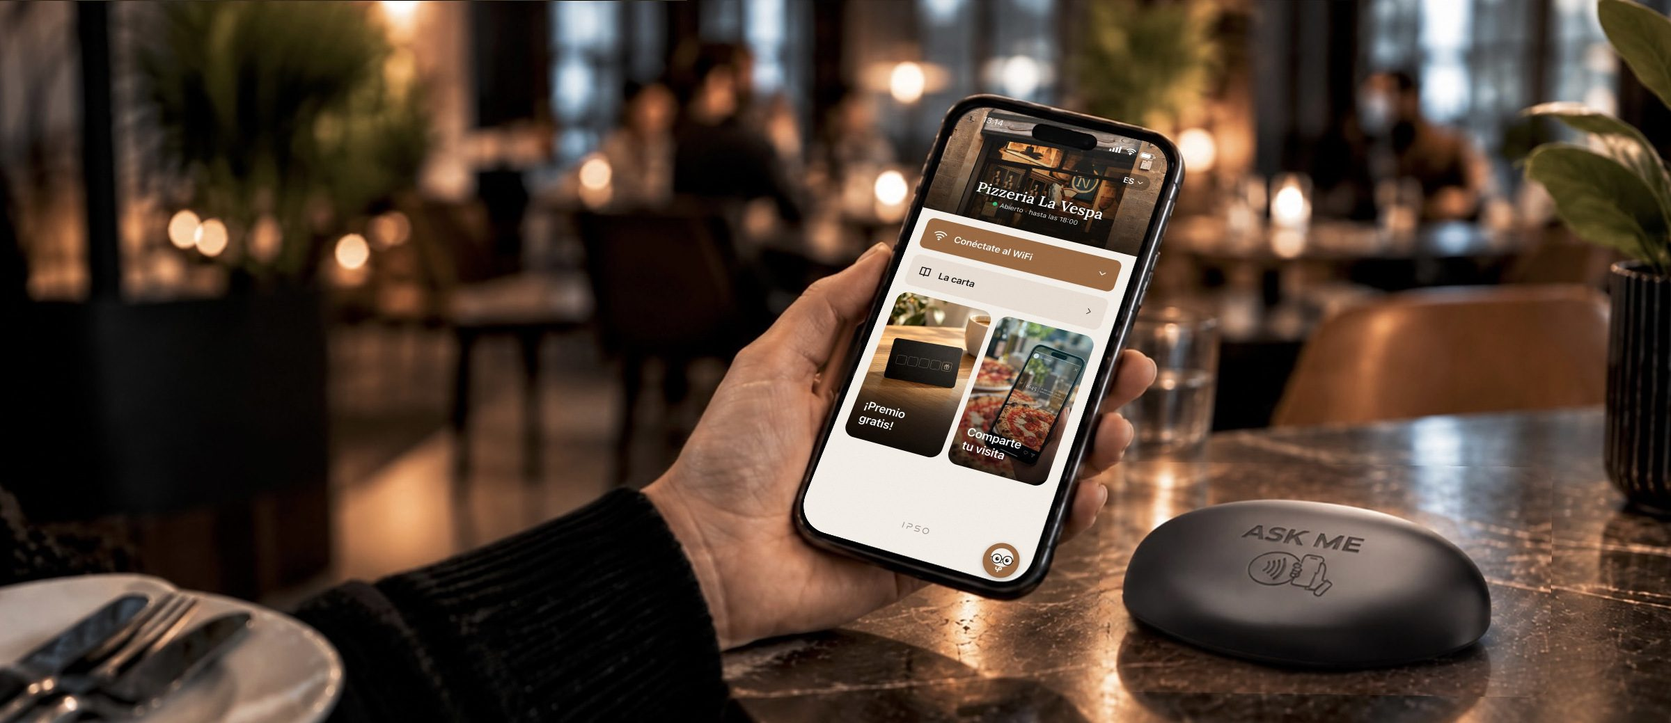
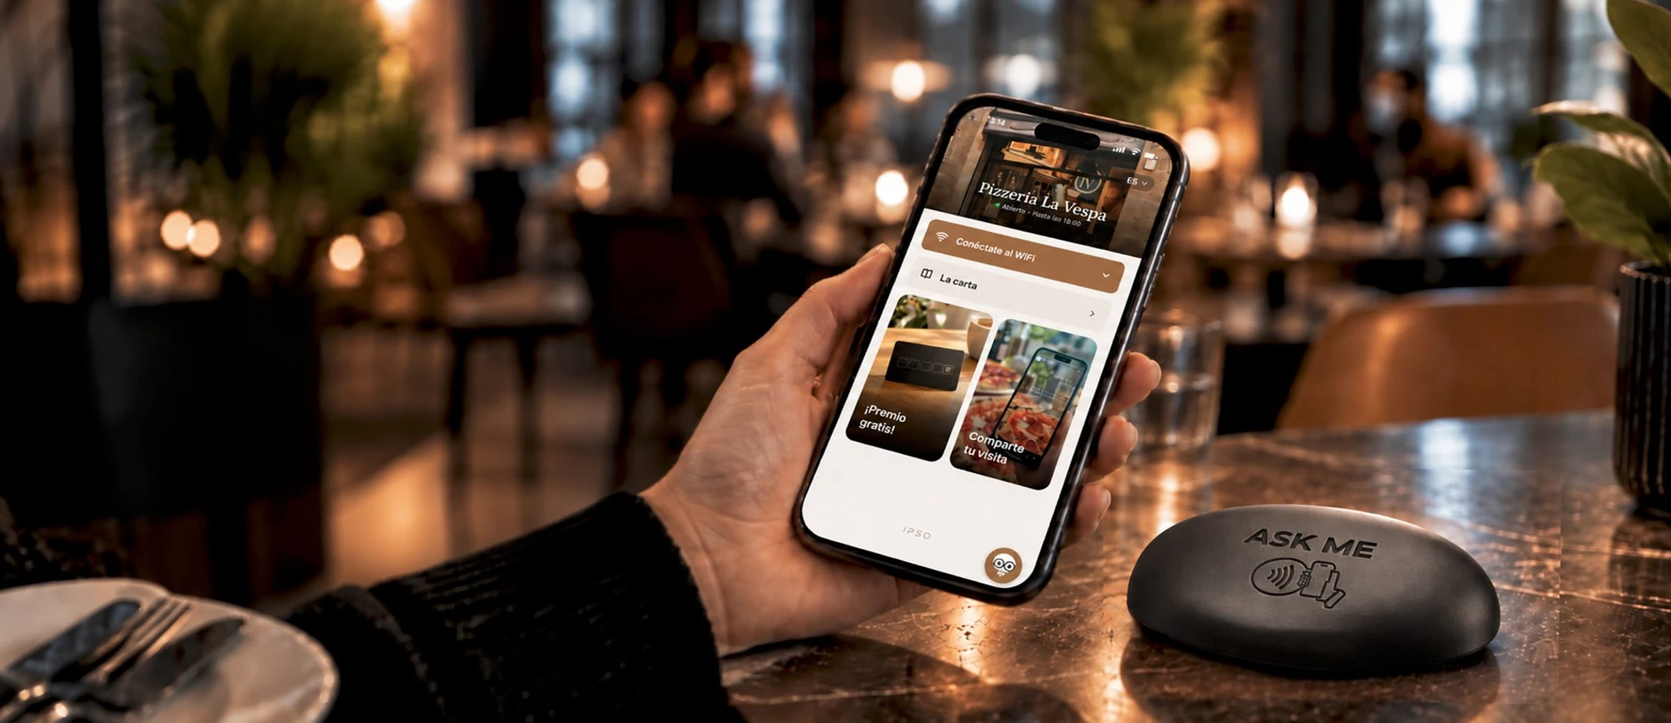
Add files via upload

diff --git a/index.html b/index.html
@@ -25,7 +25,7 @@
   <link rel="apple-touch-icon" href="/favicon.png?v=2"><!-- /ipso-seo -->
   <script type="application/ld+json" data-ipso="1">{"@context": "https://schema.org", "@graph": [{"@type": "Organization", "@id": "https://ipsoglobal.com/#org", "name": "Ipso", "alternateName": "IPSO", "url": "https://ipsoglobal.com/", "logo": "https://ipsoglobal.com/favicon.png?v=2", "slogan": "Somos el ADN de tu local.", "description": "Ipso es una empresa tecnológica de Barcelona que crea el ADN de bares, restaurantes, cafeterías, peluquerías y comercios de barrio: un punto NFC en el mostrador (IPSO HUB) que abre en el móvil del cliente el WiFi sin contraseña, la carta digital con fotos y precios, las reseñas de Google, una tarjeta de fidelización sin app y un asistente con inteligencia artificial que atiende en 30 idiomas.", "email": "contacto@ipsoglobal.com", "telephone": "+34603924226", "address": {"@type": "PostalAddress", "addressLocality": "Barcelona", "addressRegion": "Cataluña", "addressCountry": "ES"}, "areaServed": [{"@type": "City", "name": "Barcelona"}, {"@type": "Country", "name": "España"}], "contactPoint": {"@type": "ContactPoint", "contactType": "sales", "telephone": "+34603924226", "email": "contacto@ipsoglobal.com", "availableLanguage": ["es", "ca", "en"]}, "knowsAbout": ["NFC para restaurantes", "carta digital NFC", "reseñas de Google con NFC", "WiFi para clientes sin contraseña", "fidelización de clientes sin app", "asistente con IA para restaurantes", "digitalización de comercios de barrio"]}, {"@type": "WebSite", "@id": "https://ipsoglobal.com/#web", "url": "https://ipsoglobal.com/", "name": "Ipso", "inLanguage": ["es", "ca", "en"], "publisher": {"@id": "https://ipsoglobal.com/#org"}}, {"@type": "ProfessionalService", "@id": "https://ipsoglobal.com/#local", "name": "Ipso — Puntos NFC para comercios", "url": "https://ipsoglobal.com/", "telephone": "+34603924226", "email": "contacto@ipsoglobal.com", "priceRange": "€", "image": "https://ipsoglobal.com/og-image.png?v=2", "parentOrganization": {"@id": "https://ipsoglobal.com/#org"}, "address": {"@type": "PostalAddress", "addressLocality": "Barcelona", "addressRegion": "Cataluña", "addressCountry": "ES"}, "areaServed": ["Barcelona", "Área metropolitana de Barcelona", "Cataluña", "España"], "serviceType": ["Punto NFC para restaurantes y bares", "Carta digital NFC", "Stand de reseñas de Google", "WiFi NFC para clientes", "Fidelización de clientes sin app", "Asistente con IA para hostelería"]}, {"@type": "Service", "@id": "https://ipsoglobal.com/hub#product", "name": "IPSO HUB", "serviceType": "Punto NFC de relación con el cliente para bares, restaurantes y comercios", "provider": {"@id": "https://ipsoglobal.com/#org"}, "brand": {"@type": "Brand", "name": "Ipso"}, "url": "https://ipsoglobal.com/hub", "image": "https://ipsoglobal.com/og-image.png?v=2", "description": "IPSO HUB: el ADN de tu local. Una pieza NFC en la barra o el mostrador que, con un toque del móvil y sin apps, abre el WiFi sin contraseña, la carta digital con fotos y precios siempre al día, las reseñas de Google, la tarjeta de fidelización (sella tu visita, sin cartón) y un asistente con IA que recomienda platos, calcula presupuestos, avisa de alérgenos y atiende en 30 idiomas. Incluye informe mensual por WhatsApp para el dueño.", "category": "Tecnología para hostelería y comercio local", "audience": {"@type": "Audience", "audienceType": "Bares, restaurantes, cafeterías, peluquerías, centros de belleza y comercios de barrio"}, "offers": {"@type": "Offer", "priceCurrency": "EUR", "price": "19", "priceSpecification": {"@type": "UnitPriceSpecification", "price": "19", "priceCurrency": "EUR", "unitText": "mes"}, "areaServed": "Barcelona, España", "description": "Cuota mensual sin permanencia. Instalación y configuración en el local incluidas."}}, {"@type": "FAQPage", "@id": "https://ipsoglobal.com/#faq", "mainEntity": [{"@type": "Question", "name": "¿Sustituye a mi TPV o a mi camarero?", "acceptedAnswer": {"@type": "Answer", "text": "No. Tu TPV sigue cobrando y tu equipo sigue atendiendo. IPSO cuida lo que pasa en la mesa mientras tanto."}}, {"@type": "Question", "name": "¿Mis clientes podrán pagar desde el hub?", "acceptedAnswer": {"@type": "Answer", "text": "Sí. Tus clientes pueden pedir y pagar desde la mesa con tarjeta, Apple Pay, Google Pay o Bizum, y el dinero va directo a tu cuenta: Ipso no se queda ni un céntimo de lo que vendes. Como cada local cobra a su manera, lo preparamos a medida: cuéntanos qué caja y qué datáfono usas y te decimos cómo hacerlo."}}, {"@type": "Question", "name": "¿Hay permanencia? ¿Cómo cancelo?", "acceptedAnswer": {"@type": "Answer", "text": "No. Cancelas desde tu panel en un clic; dejas de pagar el mes siguiente y el punto sigue siendo tuyo."}}, {"@type": "Question", "name": "¿Necesito una app? ¿Funciona en cualquier móvil?", "acceptedAnswer": {"@type": "Answer", "text": "No. Llega programado y listo para poner en el mostrador. Funciona en iPhone y Android, por NFC: tus clientes solo acercan el móvil que ya llevan encima."}}, {"@type": "Question", "name": "¿Esto está permitido por Google?", "acceptedAnswer": {"@type": "Answer", "text": "Sí. El punto abre tu ficha oficial. No pedimos, no filtramos, no premiamos reseñas."}}]}]}</script>
 <meta charset="utf-8">
-<script src="./support.js?v=202610141514"></script>
+<script src="./support.js?v=202610141520"></script>
 </head>
 <body>
 <x-dc>
@@ -530,7 +530,7 @@ html body #sol-intro#sol-intro[data-rv="in"], html body #sol-rail#sol-rail[data-
   <!-- ============ HERO ============ -->
   <section id="top" data-hero2="1" style="position: relative; overflow: hidden; scroll-margin-top: 96px; background: #000000;">
     <div aria-hidden="true" style="position: absolute; inset: 0; margin: 0; padding: 0;">
-      <img src="assets/hero-askme-hd.jpg?v=6b6fd2fc" alt="" data-heroimg3="1" style="display: block; width: 100%; height: 100%; object-fit: cover; object-position: 62% 50%;">
+      <img src="assets/hero-askme-hd.jpg?v=20261014b" alt="" data-heroimg3="1" style="display: block; width: 100%; height: 100%; object-fit: cover; object-position: 62% 50%;">
       <div data-herodim3="1" style="position: absolute; inset: 0; background: linear-gradient(90deg, rgba(0,0,0,.9) 0%, rgba(0,0,0,.72) 26%, rgba(0,0,0,.3) 44%, rgba(0,0,0,0) 58%), linear-gradient(180deg, rgba(0,0,0,.4) 0%, rgba(0,0,0,0) 22%, rgba(0,0,0,0) 80%, rgba(0,0,0,.6) 100%);"></div>
     </div>
     <div data-sec="1" style="position: relative; width: 100%; max-width: 1920px; margin: 0 auto; padding: clamp(120px, 10vw, 180px) 5% clamp(72px, 7vw, 120px); text-align: left;">

diff --git a/hub.html b/hub.html
@@ -25,7 +25,7 @@
   <link rel="apple-touch-icon" href="/favicon.png?v=2"><!-- /ipso-seo -->
   <script type="application/ld+json" data-ipso="1">{"@context": "https://schema.org", "@graph": [{"@type": "Organization", "@id": "https://ipsoglobal.com/#org", "name": "Ipso", "alternateName": "IPSO", "url": "https://ipsoglobal.com/", "logo": "https://ipsoglobal.com/favicon.png?v=2", "slogan": "Somos el ADN de tu local.", "description": "Ipso es una empresa tecnológica de Barcelona que crea el ADN de bares, restaurantes, cafeterías, peluquerías y comercios de barrio: un punto NFC en el mostrador (IPSO HUB) que abre en el móvil del cliente el WiFi sin contraseña, la carta digital con fotos y precios, las reseñas de Google, una tarjeta de fidelización sin app y un asistente con inteligencia artificial que atiende en 30 idiomas.", "email": "contacto@ipsoglobal.com", "telephone": "+34603924226", "address": {"@type": "PostalAddress", "addressLocality": "Barcelona", "addressRegion": "Cataluña", "addressCountry": "ES"}, "areaServed": [{"@type": "City", "name": "Barcelona"}, {"@type": "Country", "name": "España"}], "contactPoint": {"@type": "ContactPoint", "contactType": "sales", "telephone": "+34603924226", "email": "contacto@ipsoglobal.com", "availableLanguage": ["es", "ca", "en"]}, "knowsAbout": ["NFC para restaurantes", "carta digital NFC", "reseñas de Google con NFC", "WiFi para clientes sin contraseña", "fidelización de clientes sin app", "asistente con IA para restaurantes", "digitalización de comercios de barrio"]}, {"@type": "WebSite", "@id": "https://ipsoglobal.com/#web", "url": "https://ipsoglobal.com/", "name": "Ipso", "inLanguage": ["es", "ca", "en"], "publisher": {"@id": "https://ipsoglobal.com/#org"}}, {"@type": "Service", "@id": "https://ipsoglobal.com/hub#product", "name": "IPSO HUB", "serviceType": "Punto NFC de relación con el cliente para bares, restaurantes y comercios", "provider": {"@id": "https://ipsoglobal.com/#org"}, "brand": {"@type": "Brand", "name": "Ipso"}, "url": "https://ipsoglobal.com/hub", "image": "https://ipsoglobal.com/og-image.png?v=2", "description": "IPSO HUB: el ADN de tu local. Una pieza NFC en la barra o el mostrador que, con un toque del móvil y sin apps, abre el WiFi sin contraseña, la carta digital con fotos y precios siempre al día, las reseñas de Google, la tarjeta de fidelización (sella tu visita, sin cartón) y un asistente con IA que recomienda platos, calcula presupuestos, avisa de alérgenos y atiende en 30 idiomas. Incluye informe mensual por WhatsApp para el dueño.", "category": "Tecnología para hostelería y comercio local", "audience": {"@type": "Audience", "audienceType": "Bares, restaurantes, cafeterías, peluquerías, centros de belleza y comercios de barrio"}, "offers": {"@type": "Offer", "priceCurrency": "EUR", "price": "19", "priceSpecification": {"@type": "UnitPriceSpecification", "price": "19", "priceCurrency": "EUR", "unitText": "mes"}, "areaServed": "Barcelona, España", "description": "Cuota mensual sin permanencia. Instalación y configuración en el local incluidas."}}, {"@type": "FAQPage", "@id": "https://ipsoglobal.com/hub#faq", "mainEntity": [{"@type": "Question", "name": "¿Cuál es la diferencia entre HUB y HUB Pro?", "acceptedAnswer": {"@type": "Answer", "text": "El HUB abre WiFi, carta, ficha de Google, redes y horarios con un pago único. El HUB Pro añade asistente con IA, tarjeta de sellos, panel en tiempo real, cambios ilimitados e informe mensual por 19 €/mes."}}, {"@type": "Question", "name": "¿Cómo cancelo?", "acceptedAnswer": {"@type": "Answer", "text": "Desde tu panel, en un clic, sin llamar ni escribir. Dejas de pagar el mes siguiente y el punto sigue siendo tuyo."}}, {"@type": "Question", "name": "¿Puedo pasar de HUB a Pro más adelante?", "acceptedAnswer": {"@type": "Answer", "text": "Sí, desde tu panel, sin cambiar el punto."}}, {"@type": "Question", "name": "¿En cualquier móvil?", "acceptedAnswer": {"@type": "Answer", "text": "Sí, iPhone y Android. El cliente solo acerca el móvil."}}, {"@type": "Question", "name": "¿Cómo funciona la tarjeta de sellos?", "acceptedAnswer": {"@type": "Answer", "text": "Es tu tarjeta de sellos, sin cartón. El cliente toca el HUB, deja su número una vez y cada visita se apunta sola. Tú decides la regla, por ejemplo 9 visitas y la 10.ª gratis. Cuando la alcanza, recibe un solo WhatsApp para canjear el premio en el local. Sin app, sin tocar tu TPV. El cliente acepta el uso de su número al dejarlo. Solo se usa para el premio. En tu informe mensual ves cuántos clientes repiten."}}, {"@type": "Question", "name": "¿Qué pasa con el teléfono de mis clientes?", "acceptedAnswer": {"@type": "Answer", "text": "Solo sirve para contar visitas y avisar del premio. No se comparte y el cliente puede borrarlo cuando quiera."}}, {"@type": "Question", "name": "¿Qué sale en la estampa de Comparte tu visita?", "acceptedAnswer": {"@type": "Answer", "text": "El nombre de tu local, la ciudad, el número de visita, la fecha y la hora. Nunca el teléfono ni ningún dato personal de tu cliente. Y solo se comparte si él quiere."}}]}]}</script>
 <meta charset="utf-8">
-<script src="./support.js?v=202610141514"></script>
+<script src="./support.js?v=202610141520"></script>
 </head>
 <body>
 <x-dc>

diff --git a/nosotros.html b/nosotros.html
@@ -25,7 +25,7 @@
   <link rel="apple-touch-icon" href="/favicon.png?v=2"><!-- /ipso-seo -->
   <script type="application/ld+json" data-ipso="1">{"@context": "https://schema.org", "@graph": [{"@type": "Organization", "@id": "https://ipsoglobal.com/#org", "name": "Ipso", "alternateName": "IPSO", "url": "https://ipsoglobal.com/", "logo": "https://ipsoglobal.com/favicon.png?v=2", "slogan": "Somos el ADN de tu local.", "description": "Ipso es una empresa tecnológica de Barcelona que crea el ADN de bares, restaurantes, cafeterías, peluquerías y comercios de barrio: un punto NFC en el mostrador (IPSO HUB) que abre en el móvil del cliente el WiFi sin contraseña, la carta digital con fotos y precios, las reseñas de Google, una tarjeta de fidelización sin app y un asistente con inteligencia artificial que atiende en 30 idiomas.", "email": "contacto@ipsoglobal.com", "telephone": "+34603924226", "address": {"@type": "PostalAddress", "addressLocality": "Barcelona", "addressRegion": "Cataluña", "addressCountry": "ES"}, "areaServed": [{"@type": "City", "name": "Barcelona"}, {"@type": "Country", "name": "España"}], "contactPoint": {"@type": "ContactPoint", "contactType": "sales", "telephone": "+34603924226", "email": "contacto@ipsoglobal.com", "availableLanguage": ["es", "ca", "en"]}, "knowsAbout": ["NFC para restaurantes", "carta digital NFC", "reseñas de Google con NFC", "WiFi para clientes sin contraseña", "fidelización de clientes sin app", "asistente con IA para restaurantes", "digitalización de comercios de barrio"]}, {"@type": "WebSite", "@id": "https://ipsoglobal.com/#web", "url": "https://ipsoglobal.com/", "name": "Ipso", "inLanguage": ["es", "ca", "en"], "publisher": {"@id": "https://ipsoglobal.com/#org"}}, {"@type": "ProfessionalService", "@id": "https://ipsoglobal.com/#local", "name": "Ipso — Puntos NFC para comercios", "url": "https://ipsoglobal.com/", "telephone": "+34603924226", "email": "contacto@ipsoglobal.com", "priceRange": "€", "image": "https://ipsoglobal.com/og-image.png?v=2", "parentOrganization": {"@id": "https://ipsoglobal.com/#org"}, "address": {"@type": "PostalAddress", "addressLocality": "Barcelona", "addressRegion": "Cataluña", "addressCountry": "ES"}, "areaServed": ["Barcelona", "Área metropolitana de Barcelona", "Cataluña", "España"], "serviceType": ["Punto NFC para restaurantes y bares", "Carta digital NFC", "Stand de reseñas de Google", "WiFi NFC para clientes", "Fidelización de clientes sin app", "Asistente con IA para hostelería"]}]}</script>
 <meta charset="utf-8">
-<script src="./support.js?v=202610141514"></script>
+<script src="./support.js?v=202610141520"></script>
 </head>
 <body>
 <x-dc>
@@ -361,7 +361,7 @@ class Component extends DCLogic {
 
   componentDidMount() {
     try { const L0 = localStorage.getItem('ipso-lang'); if (L0 && ['es','en','ca'].indexOf(L0) >= 0 && L0 !== this.state.lang) { const p0 = this.state.lang; this.setState({ lang: L0 }, () => { if (this.applyLang) this.applyLang(p0); }); } } catch (e) {}
-    import('./ipso-chrome.js?v=202610141514').then((m) => { this._chrome = m; m.applyTheme(this.state.theme); this.forceUpdate(); });
+    import('./ipso-chrome.js?v=202610141520').then((m) => { this._chrome = m; m.applyTheme(this.state.theme); this.forceUpdate(); });
   }
 
   componentDidUpdate() {

diff --git a/404.html b/404.html
@@ -25,7 +25,7 @@
   <link rel="apple-touch-icon" href="/favicon.png?v=2"><!-- /ipso-seo -->
   <script type="application/ld+json" data-ipso="1">{"@context": "https://schema.org", "@graph": [{"@type": "Organization", "@id": "https://ipsoglobal.com/#org", "name": "Ipso", "alternateName": "IPSO", "url": "https://ipsoglobal.com/", "logo": "https://ipsoglobal.com/favicon.png?v=2", "slogan": "Somos el ADN de tu local.", "description": "Ipso es una empresa tecnológica de Barcelona que crea el ADN de bares, restaurantes, cafeterías, peluquerías y comercios de barrio: un punto NFC en el mostrador (IPSO HUB) que abre en el móvil del cliente el WiFi sin contraseña, la carta digital con fotos y precios, las reseñas de Google, una tarjeta de fidelización sin app y un asistente con inteligencia artificial que atiende en 30 idiomas.", "email": "contacto@ipsoglobal.com", "telephone": "+34603924226", "address": {"@type": "PostalAddress", "addressLocality": "Barcelona", "addressRegion": "Cataluña", "addressCountry": "ES"}, "areaServed": [{"@type": "City", "name": "Barcelona"}, {"@type": "Country", "name": "España"}], "contactPoint": {"@type": "ContactPoint", "contactType": "sales", "telephone": "+34603924226", "email": "contacto@ipsoglobal.com", "availableLanguage": ["es", "ca", "en"]}, "knowsAbout": ["NFC para restaurantes", "carta digital NFC", "reseñas de Google con NFC", "WiFi para clientes sin contraseña", "fidelización de clientes sin app", "asistente con IA para restaurantes", "digitalización de comercios de barrio"]}, {"@type": "WebSite", "@id": "https://ipsoglobal.com/#web", "url": "https://ipsoglobal.com/", "name": "Ipso", "inLanguage": ["es", "ca", "en"], "publisher": {"@id": "https://ipsoglobal.com/#org"}}]}</script>
 <meta charset="utf-8">
-<script src="./support.js?v=202610141514"></script>
+<script src="./support.js?v=202610141520"></script>
 </head>
 <body>
 <x-dc>
@@ -304,7 +304,7 @@ class Component extends DCLogic {
 
   componentDidMount() {
     try { const L0 = localStorage.getItem('ipso-lang'); if (L0 && ['es','en','ca'].indexOf(L0) >= 0 && L0 !== this.state.lang) { const p0 = this.state.lang; this.setState({ lang: L0 }, () => { if (this.applyLang) this.applyLang(p0); }); } } catch (e) {}
-    import('./ipso-chrome.js?v=202610141514').then((m) => { this._chrome = m; m.applyTheme(this.state.theme); this.forceUpdate(); });
+    import('./ipso-chrome.js?v=202610141520').then((m) => { this._chrome = m; m.applyTheme(this.state.theme); this.forceUpdate(); });
   }
 
   componentDidUpdate() {

diff --git a/legal.html b/legal.html
@@ -25,7 +25,7 @@
   <link rel="apple-touch-icon" href="/favicon.png?v=2"><!-- /ipso-seo -->
   <script type="application/ld+json" data-ipso="1">{"@context": "https://schema.org", "@graph": [{"@type": "Organization", "@id": "https://ipsoglobal.com/#org", "name": "Ipso", "alternateName": "IPSO", "url": "https://ipsoglobal.com/", "logo": "https://ipsoglobal.com/favicon.png?v=2", "slogan": "Somos el ADN de tu local.", "description": "Ipso es una empresa tecnológica de Barcelona que crea el ADN de bares, restaurantes, cafeterías, peluquerías y comercios de barrio: un punto NFC en el mostrador (IPSO HUB) que abre en el móvil del cliente el WiFi sin contraseña, la carta digital con fotos y precios, las reseñas de Google, una tarjeta de fidelización sin app y un asistente con inteligencia artificial que atiende en 30 idiomas.", "email": "contacto@ipsoglobal.com", "telephone": "+34603924226", "address": {"@type": "PostalAddress", "addressLocality": "Barcelona", "addressRegion": "Cataluña", "addressCountry": "ES"}, "areaServed": [{"@type": "City", "name": "Barcelona"}, {"@type": "Country", "name": "España"}], "contactPoint": {"@type": "ContactPoint", "contactType": "sales", "telephone": "+34603924226", "email": "contacto@ipsoglobal.com", "availableLanguage": ["es", "ca", "en"]}, "knowsAbout": ["NFC para restaurantes", "carta digital NFC", "reseñas de Google con NFC", "WiFi para clientes sin contraseña", "fidelización de clientes sin app", "asistente con IA para restaurantes", "digitalización de comercios de barrio"]}, {"@type": "WebSite", "@id": "https://ipsoglobal.com/#web", "url": "https://ipsoglobal.com/", "name": "Ipso", "inLanguage": ["es", "ca", "en"], "publisher": {"@id": "https://ipsoglobal.com/#org"}}]}</script>
 <meta charset="utf-8">
-<script src="./support.js?v=202610141514"></script>
+<script src="./support.js?v=202610141520"></script>
 </head>
 <body>
 <x-dc>
@@ -766,7 +766,7 @@ class Component extends DCLogic {
 
   componentDidMount() {
     try { const L0 = localStorage.getItem('ipso-lang'); if (L0 && ['es','en','ca'].indexOf(L0) >= 0 && L0 !== this.state.lang) { const p0 = this.state.lang; this.setState({ lang: L0 }, () => { if (this.applyLang) this.applyLang(p0); }); } } catch (e) {}
-    import('./ipso-chrome.js?v=202610141514').then((m) => { this._chrome = m; m.applyTheme(this.state.theme); this.forceUpdate(); });
+    import('./ipso-chrome.js?v=202610141520').then((m) => { this._chrome = m; m.applyTheme(this.state.theme); this.forceUpdate(); });
   }
 
   componentDidUpdate() {

diff --git a/resenas.html b/resenas.html
@@ -25,7 +25,7 @@
   <link rel="apple-touch-icon" href="/favicon.png?v=2"><!-- /ipso-seo -->
   <script type="application/ld+json" data-ipso="1">{"@context": "https://schema.org", "@graph": [{"@type": "Organization", "@id": "https://ipsoglobal.com/#org", "name": "Ipso", "alternateName": "IPSO", "url": "https://ipsoglobal.com/", "logo": "https://ipsoglobal.com/favicon.png?v=2", "slogan": "Somos el ADN de tu local.", "description": "Ipso es una empresa tecnológica de Barcelona que crea el ADN de bares, restaurantes, cafeterías, peluquerías y comercios de barrio: un punto NFC en el mostrador (IPSO HUB) que abre en el móvil del cliente el WiFi sin contraseña, la carta digital con fotos y precios, las reseñas de Google, una tarjeta de fidelización sin app y un asistente con inteligencia artificial que atiende en 30 idiomas.", "email": "contacto@ipsoglobal.com", "telephone": "+34603924226", "address": {"@type": "PostalAddress", "addressLocality": "Barcelona", "addressRegion": "Cataluña", "addressCountry": "ES"}, "areaServed": [{"@type": "City", "name": "Barcelona"}, {"@type": "Country", "name": "España"}], "contactPoint": {"@type": "ContactPoint", "contactType": "sales", "telephone": "+34603924226", "email": "contacto@ipsoglobal.com", "availableLanguage": ["es", "ca", "en"]}, "knowsAbout": ["NFC para restaurantes", "carta digital NFC", "reseñas de Google con NFC", "WiFi para clientes sin contraseña", "fidelización de clientes sin app", "asistente con IA para restaurantes", "digitalización de comercios de barrio"]}, {"@type": "WebSite", "@id": "https://ipsoglobal.com/#web", "url": "https://ipsoglobal.com/", "name": "Ipso", "inLanguage": ["es", "ca", "en"], "publisher": {"@id": "https://ipsoglobal.com/#org"}}]}</script>
 <meta charset="utf-8">
-<script src="./support.js?v=202610141514"></script>
+<script src="./support.js?v=202610141520"></script>
 </head>
 <body>
 <x-dc>
@@ -382,7 +382,7 @@ class Component extends DCLogic {
 
   componentDidMount() {
     try { const L0 = localStorage.getItem('ipso-lang'); if (L0 && ['es','en','ca'].indexOf(L0) >= 0 && L0 !== this.state.lang) { const p0 = this.state.lang; this.setState({ lang: L0 }, () => { if (this.applyLang) this.applyLang(p0); }); } } catch (e) {}
-    import('./ipso-chrome.js?v=202610141514').then((m) => { this._chrome = m; m.applyTheme(this.state.theme); this.forceUpdate(); });
+    import('./ipso-chrome.js?v=202610141520').then((m) => { this._chrome = m; m.applyTheme(this.state.theme); this.forceUpdate(); });
   }
 
   componentDidUpdate() {

diff --git a/gracias.html b/gracias.html
@@ -25,7 +25,7 @@
   <link rel="apple-touch-icon" href="/favicon.png?v=2"><!-- /ipso-seo -->
   <script type="application/ld+json" data-ipso="1">{"@context": "https://schema.org", "@graph": [{"@type": "Organization", "@id": "https://ipsoglobal.com/#org", "name": "Ipso", "alternateName": "IPSO", "url": "https://ipsoglobal.com/", "logo": "https://ipsoglobal.com/favicon.png?v=2", "slogan": "Somos el ADN de tu local.", "description": "Ipso es una empresa tecnológica de Barcelona que crea el ADN de bares, restaurantes, cafeterías, peluquerías y comercios de barrio: un punto NFC en el mostrador (IPSO HUB) que abre en el móvil del cliente el WiFi sin contraseña, la carta digital con fotos y precios, las reseñas de Google, una tarjeta de fidelización sin app y un asistente con inteligencia artificial que atiende en 30 idiomas.", "email": "contacto@ipsoglobal.com", "telephone": "+34603924226", "address": {"@type": "PostalAddress", "addressLocality": "Barcelona", "addressRegion": "Cataluña", "addressCountry": "ES"}, "areaServed": [{"@type": "City", "name": "Barcelona"}, {"@type": "Country", "name": "España"}], "contactPoint": {"@type": "ContactPoint", "contactType": "sales", "telephone": "+34603924226", "email": "contacto@ipsoglobal.com", "availableLanguage": ["es", "ca", "en"]}, "knowsAbout": ["NFC para restaurantes", "carta digital NFC", "reseñas de Google con NFC", "WiFi para clientes sin contraseña", "fidelización de clientes sin app", "asistente con IA para restaurantes", "digitalización de comercios de barrio"]}, {"@type": "WebSite", "@id": "https://ipsoglobal.com/#web", "url": "https://ipsoglobal.com/", "name": "Ipso", "inLanguage": ["es", "ca", "en"], "publisher": {"@id": "https://ipsoglobal.com/#org"}}]}</script>
 <meta charset="utf-8">
-<script src="./support.js?v=202610141514"></script>
+<script src="./support.js?v=202610141520"></script>
 </head>
 <body>
 <x-dc>
@@ -165,7 +165,7 @@ class Component extends DCLogic {
     const lang = initialLang();
     if (lang !== this.state.lang) this.setState({ lang });
     document.documentElement.lang = lang;
-    import('./ipso-chrome.js?v=202610141514').then((m) => { this._chrome = m; m.applyTheme(this.state.theme); }).catch(() => {});
+    import('./ipso-chrome.js?v=202610141520').then((m) => { this._chrome = m; m.applyTheme(this.state.theme); }).catch(() => {});
   }
   componentDidUpdate() { if (this._chrome) this._chrome.applyTheme(this.state.theme); }
   renderVals() {

diff --git a/alta.html b/alta.html
@@ -25,7 +25,7 @@
   <link rel="apple-touch-icon" href="/favicon.png?v=2"><!-- /ipso-seo -->
   <script type="application/ld+json" data-ipso="1">{"@context": "https://schema.org", "@graph": [{"@type": "Organization", "@id": "https://ipsoglobal.com/#org", "name": "Ipso", "alternateName": "IPSO", "url": "https://ipsoglobal.com/", "logo": "https://ipsoglobal.com/favicon.png?v=2", "slogan": "Somos el ADN de tu local.", "description": "Ipso es una empresa tecnológica de Barcelona que crea el ADN de bares, restaurantes, cafeterías, peluquerías y comercios de barrio: un punto NFC en el mostrador (IPSO HUB) que abre en el móvil del cliente el WiFi sin contraseña, la carta digital con fotos y precios, las reseñas de Google, una tarjeta de fidelización sin app y un asistente con inteligencia artificial que atiende en 30 idiomas.", "email": "contacto@ipsoglobal.com", "telephone": "+34603924226", "address": {"@type": "PostalAddress", "addressLocality": "Barcelona", "addressRegion": "Cataluña", "addressCountry": "ES"}, "areaServed": [{"@type": "City", "name": "Barcelona"}, {"@type": "Country", "name": "España"}], "contactPoint": {"@type": "ContactPoint", "contactType": "sales", "telephone": "+34603924226", "email": "contacto@ipsoglobal.com", "availableLanguage": ["es", "ca", "en"]}, "knowsAbout": ["NFC para restaurantes", "carta digital NFC", "reseñas de Google con NFC", "WiFi para clientes sin contraseña", "fidelización de clientes sin app", "asistente con IA para restaurantes", "digitalización de comercios de barrio"]}, {"@type": "WebSite", "@id": "https://ipsoglobal.com/#web", "url": "https://ipsoglobal.com/", "name": "Ipso", "inLanguage": ["es", "ca", "en"], "publisher": {"@id": "https://ipsoglobal.com/#org"}}]}</script>
 <meta charset="utf-8">
-<script src="./support.js?v=202610141514"></script>
+<script src="./support.js?v=202610141520"></script>
 </head>
 <body>
 <x-dc>

diff --git a/alta-gracias.html b/alta-gracias.html
@@ -25,7 +25,7 @@
   <link rel="apple-touch-icon" href="/favicon.png?v=2"><!-- /ipso-seo -->
   <script type="application/ld+json" data-ipso="1">{"@context": "https://schema.org", "@graph": [{"@type": "Organization", "@id": "https://ipsoglobal.com/#org", "name": "Ipso", "alternateName": "IPSO", "url": "https://ipsoglobal.com/", "logo": "https://ipsoglobal.com/favicon.png?v=2", "slogan": "Somos el ADN de tu local.", "description": "Ipso es una empresa tecnológica de Barcelona que crea el ADN de bares, restaurantes, cafeterías, peluquerías y comercios de barrio: un punto NFC en el mostrador (IPSO HUB) que abre en el móvil del cliente el WiFi sin contraseña, la carta digital con fotos y precios, las reseñas de Google, una tarjeta de fidelización sin app y un asistente con inteligencia artificial que atiende en 30 idiomas.", "email": "contacto@ipsoglobal.com", "telephone": "+34603924226", "address": {"@type": "PostalAddress", "addressLocality": "Barcelona", "addressRegion": "Cataluña", "addressCountry": "ES"}, "areaServed": [{"@type": "City", "name": "Barcelona"}, {"@type": "Country", "name": "España"}], "contactPoint": {"@type": "ContactPoint", "contactType": "sales", "telephone": "+34603924226", "email": "contacto@ipsoglobal.com", "availableLanguage": ["es", "ca", "en"]}, "knowsAbout": ["NFC para restaurantes", "carta digital NFC", "reseñas de Google con NFC", "WiFi para clientes sin contraseña", "fidelización de clientes sin app", "asistente con IA para restaurantes", "digitalización de comercios de barrio"]}, {"@type": "WebSite", "@id": "https://ipsoglobal.com/#web", "url": "https://ipsoglobal.com/", "name": "Ipso", "inLanguage": ["es", "ca", "en"], "publisher": {"@id": "https://ipsoglobal.com/#org"}}]}</script>
 <meta charset="utf-8">
-<script src="support.js?v=202610141514"></script>
+<script src="support.js?v=202610141520"></script>
 </head>
 <body>
 <x-dc>
